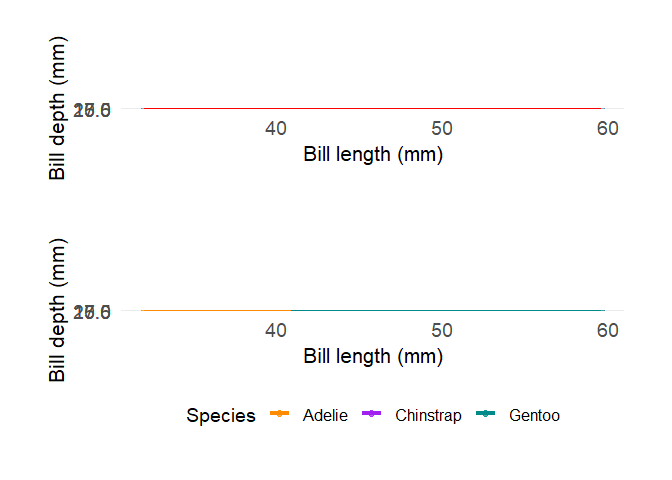
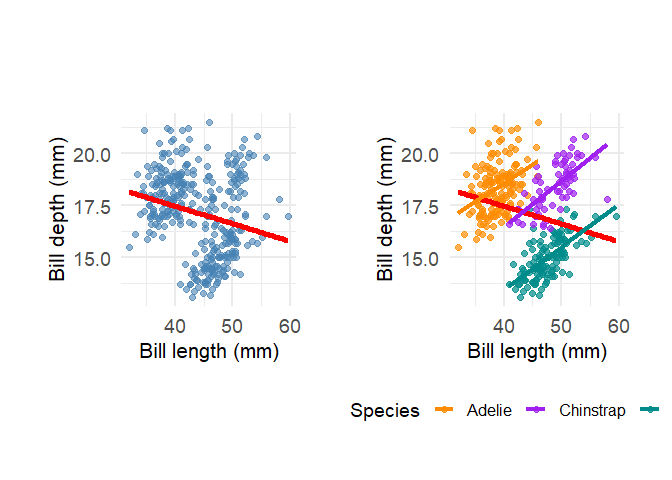
stll trying to get plot to not be squished

diff --git a/README.md b/README.md
@@ -116,7 +116,7 @@ relationship when we aggregate the data.
 
 ``` r
 # Create the stacked comparison using patchwork
-comparison_plot <- plot1 / plot2 
+comparison_plot <- plot1 + plot2 
 
 comparison_plot
 ```
